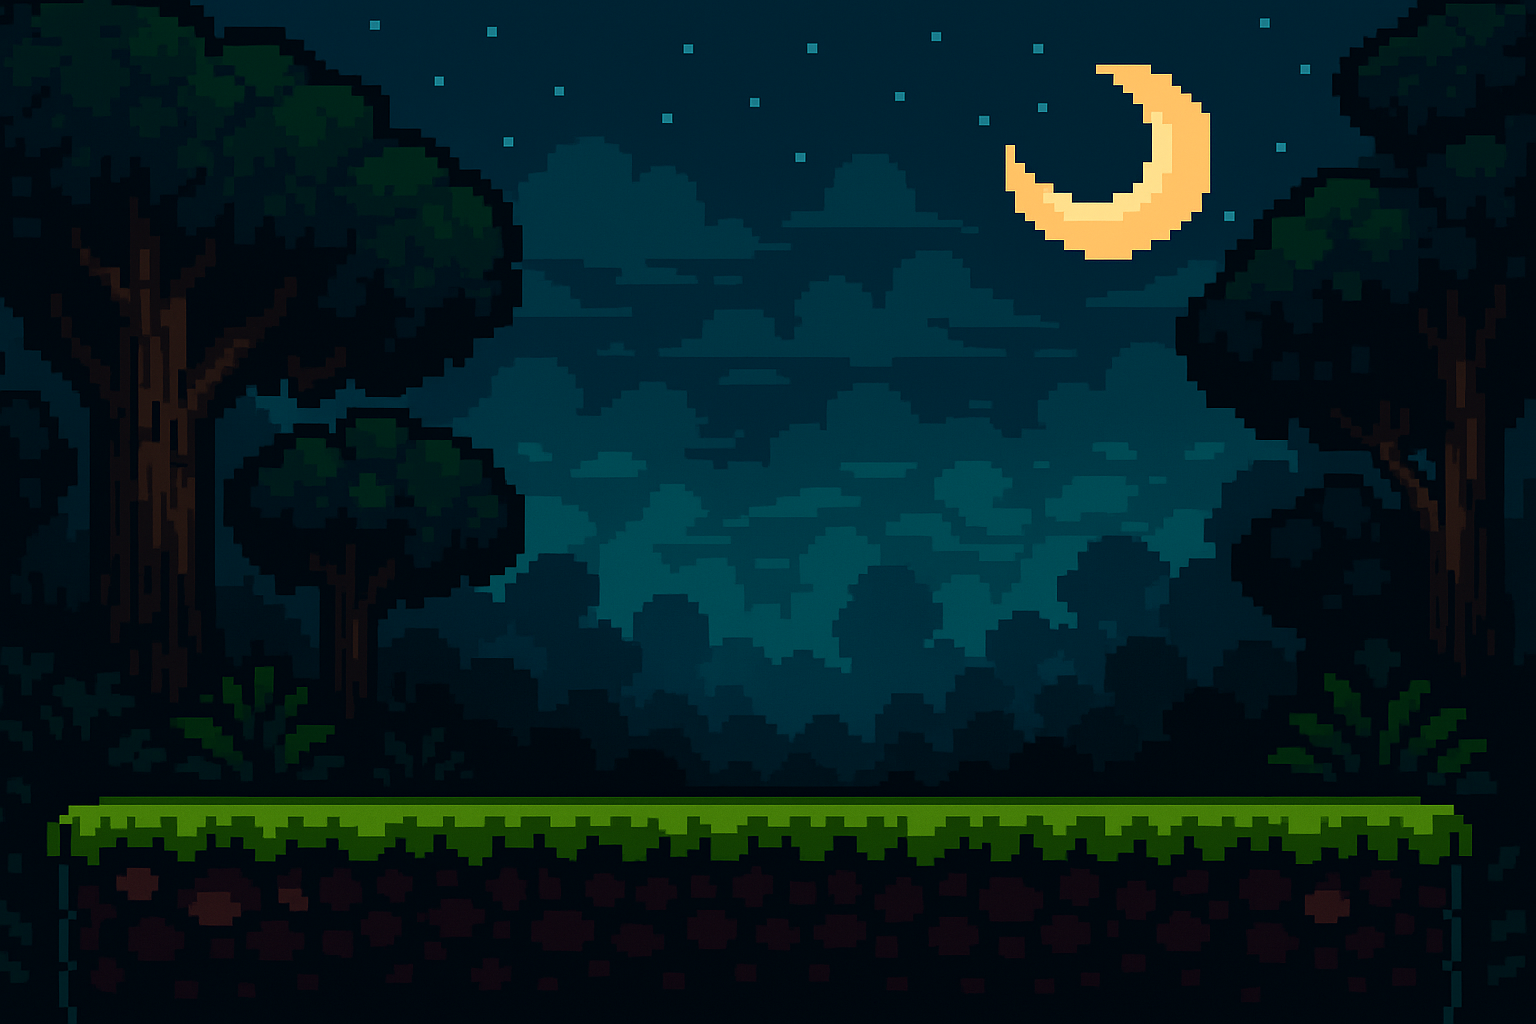
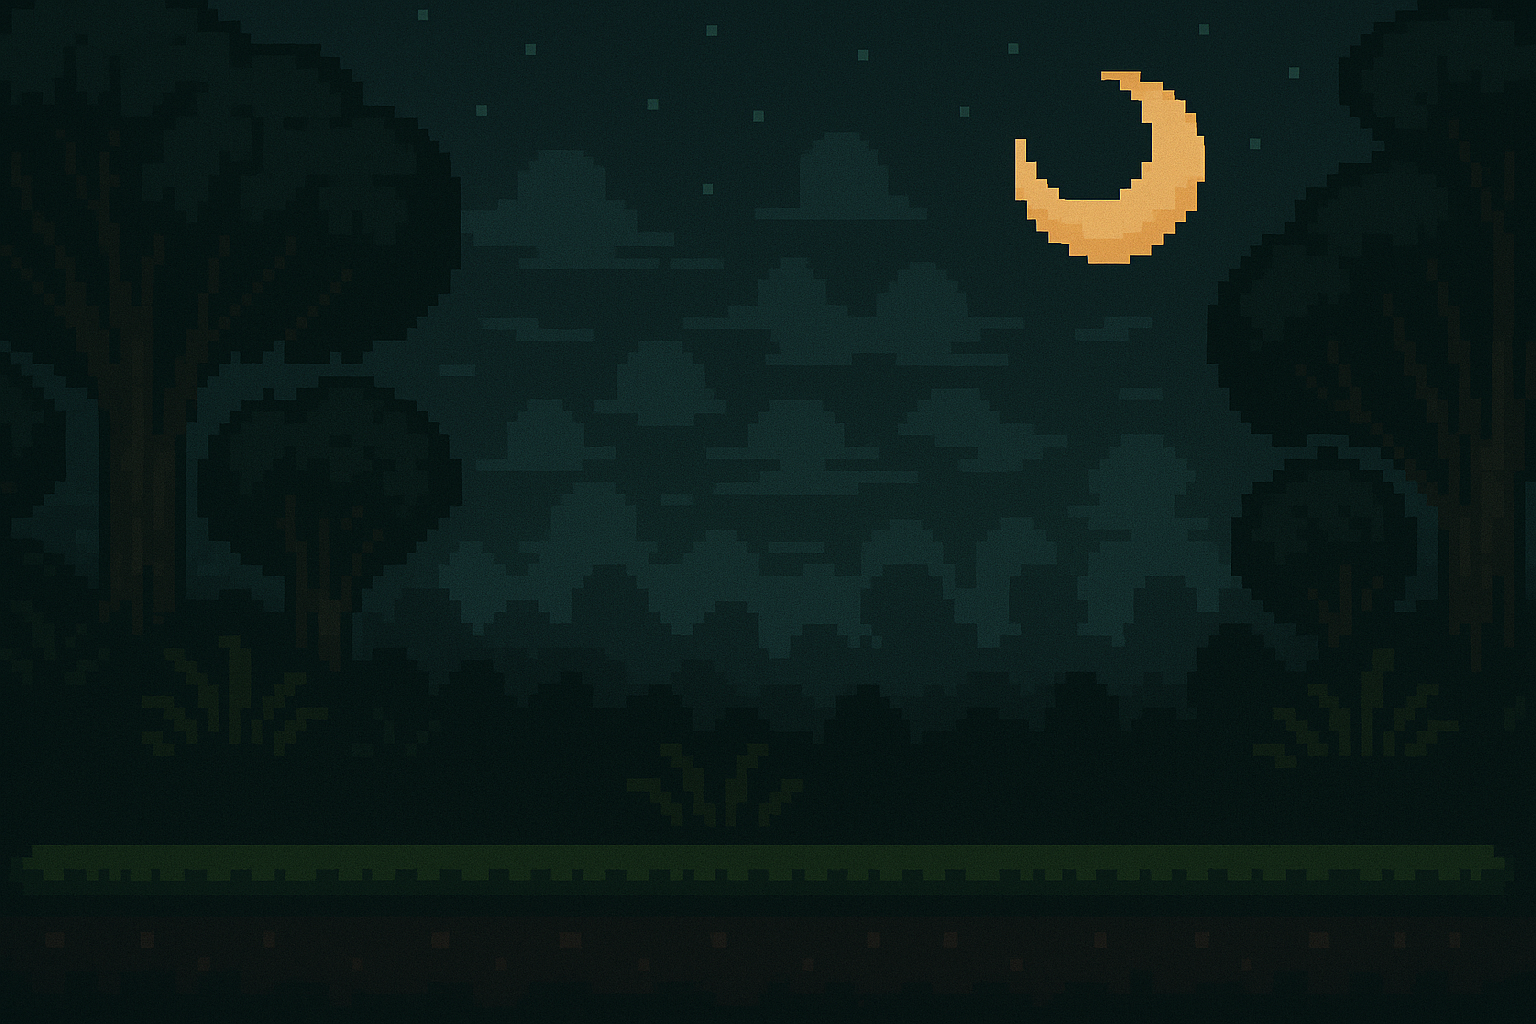
alteracao de imagens e plataformas

diff --git a/lutinha.py b/lutinha.py
@@ -11,9 +11,21 @@ largura, altura = 1000, 600
 tela = pygame.display.set_mode((largura, altura))
 pygame.display.set_caption("Lutinha")
 
-# Determina o fundo (podemos trocar depois, é só colocar a imagem q a gente quiser com o nome 'fundo.png' na pasta imagens)
-fundo_original = pygame.image.load("imagens/fundo6.png").convert()
+# Determina o fundo (6 opcoes de fundo que serao escolhidas de forma aleatoria)
+opcoes_de_fundos = [
+    "imagens/fundo1.png",
+    "imagens/fundo2.png",
+    "imagens/fundo3.png",
+    "imagens/fundo4.png",
+    "imagens/fundo5.png",
+    "imagens/fundo6.png"
+    "imagens/fundo7.png"
+]
+
+fundo_escolhido = random.choice(opcoes_de_fundos)
+fundo_original = pygame.image.load(fundo_escolhido).convert()
 fundo = pygame.transform.scale(fundo_original, (largura, altura))
+
 
 #Imagem flecha 
 flecha_img = pygame.image.load("imagens/flecha.png").convert_alpha()
@@ -64,54 +76,54 @@ pode_usar_faca_p2 = True
 # Criação do relógio para controlar FPS
 clock = pygame.time.Clock()
 
-# Plataformas (x, y, largura, altura)         #Rect cria retângulo 
+# 6 opcoes de plataformas (x, y, largura, altura), que serao escolhidas de forma aleatoria        #Rect cria retângulo 
 plataformas1 = [
     pygame.Rect(200, 400, 400, 20),
     pygame.Rect(500, 300, 200, 20),
     pygame.Rect(750, 450, 120, 20),
     pygame.Rect(100, 270, 100, 20),
     pygame.Rect(300, 200, 150, 20),
-    pygame.Rect(600, 160, 280, 20)
+    pygame.Rect(600, 120, 280, 20)
 ]
 
 plataformas2 = [
-    pygame.Rect(100, 450, 300, 20),
-    pygame.Rect(500, 400, 250, 20),
-    pygame.Rect(200, 300, 150, 20),
-    pygame.Rect(600, 250, 200, 20),
-    pygame.Rect(350, 150, 180, 20)
+    pygame.Rect(170, 440, 300, 20),
+    pygame.Rect(500, 370, 250, 20),
+    pygame.Rect(230, 290, 150, 20),
+    pygame.Rect(600, 210, 200, 20),
+    pygame.Rect(350, 120, 180, 20)
 ]
 
 plataformas3 = [
-    pygame.Rect(50, 420, 250, 20),
-    pygame.Rect(350, 380, 180, 20),
-    pygame.Rect(650, 340, 200, 20),
-    pygame.Rect(150, 260, 140, 20),
-    pygame.Rect(500, 200, 220, 20)
+    pygame.Rect(270, 420, 250, 20),
+    pygame.Rect(350, 350, 180, 20),
+    pygame.Rect(650, 320, 200, 20),
+    pygame.Rect(190, 200, 140, 20),
+    pygame.Rect(500, 120, 220, 20)
 ]
 
 plataformas4 = [
-    pygame.Rect(100, 500, 200, 20),
-    pygame.Rect(400, 420, 120, 20),
-    pygame.Rect(700, 350, 100, 20),
-    pygame.Rect(300, 270, 150, 20),
-    pygame.Rect(550, 180, 130, 20)
+    pygame.Rect(170, 400, 200, 20),
+    pygame.Rect(430, 310, 120, 20),
+    pygame.Rect(700, 250, 100, 20),
+    pygame.Rect(320, 160, 150, 20),
+    pygame.Rect(550, 100, 130, 20)
 ]
 
 plataformas5 = [
     pygame.Rect(150, 400, 200, 20),
-    pygame.Rect(650, 400, 200, 20),
-    pygame.Rect(400, 300, 200, 20),
-    pygame.Rect(250, 200, 150, 20),
-    pygame.Rect(600, 200, 150, 20)
+    pygame.Rect(650, 350, 200, 20),
+    pygame.Rect(400, 220, 200, 20),
+    pygame.Rect(250, 190, 150, 20),
+    pygame.Rect(600, 100, 150, 20)
 ]
 
 plataformas6 = [
-    pygame.Rect(100, 500, 200, 20),
-    pygame.Rect(300, 400, 200, 20),
+    pygame.Rect(140, 430, 200, 20),
+    pygame.Rect(300, 370, 200, 20),
     pygame.Rect(500, 300, 200, 20),
-    pygame.Rect(700, 200, 200, 20),
-    pygame.Rect(400, 100, 200, 20)
+    pygame.Rect(700, 220, 200, 20),
+    pygame.Rect(400, 150, 200, 20)
 ]
 
 opcoes_de_plataformas = [plataformas1, plataformas2, plataformas3, plataformas4, plataformas5, plataformas6]
